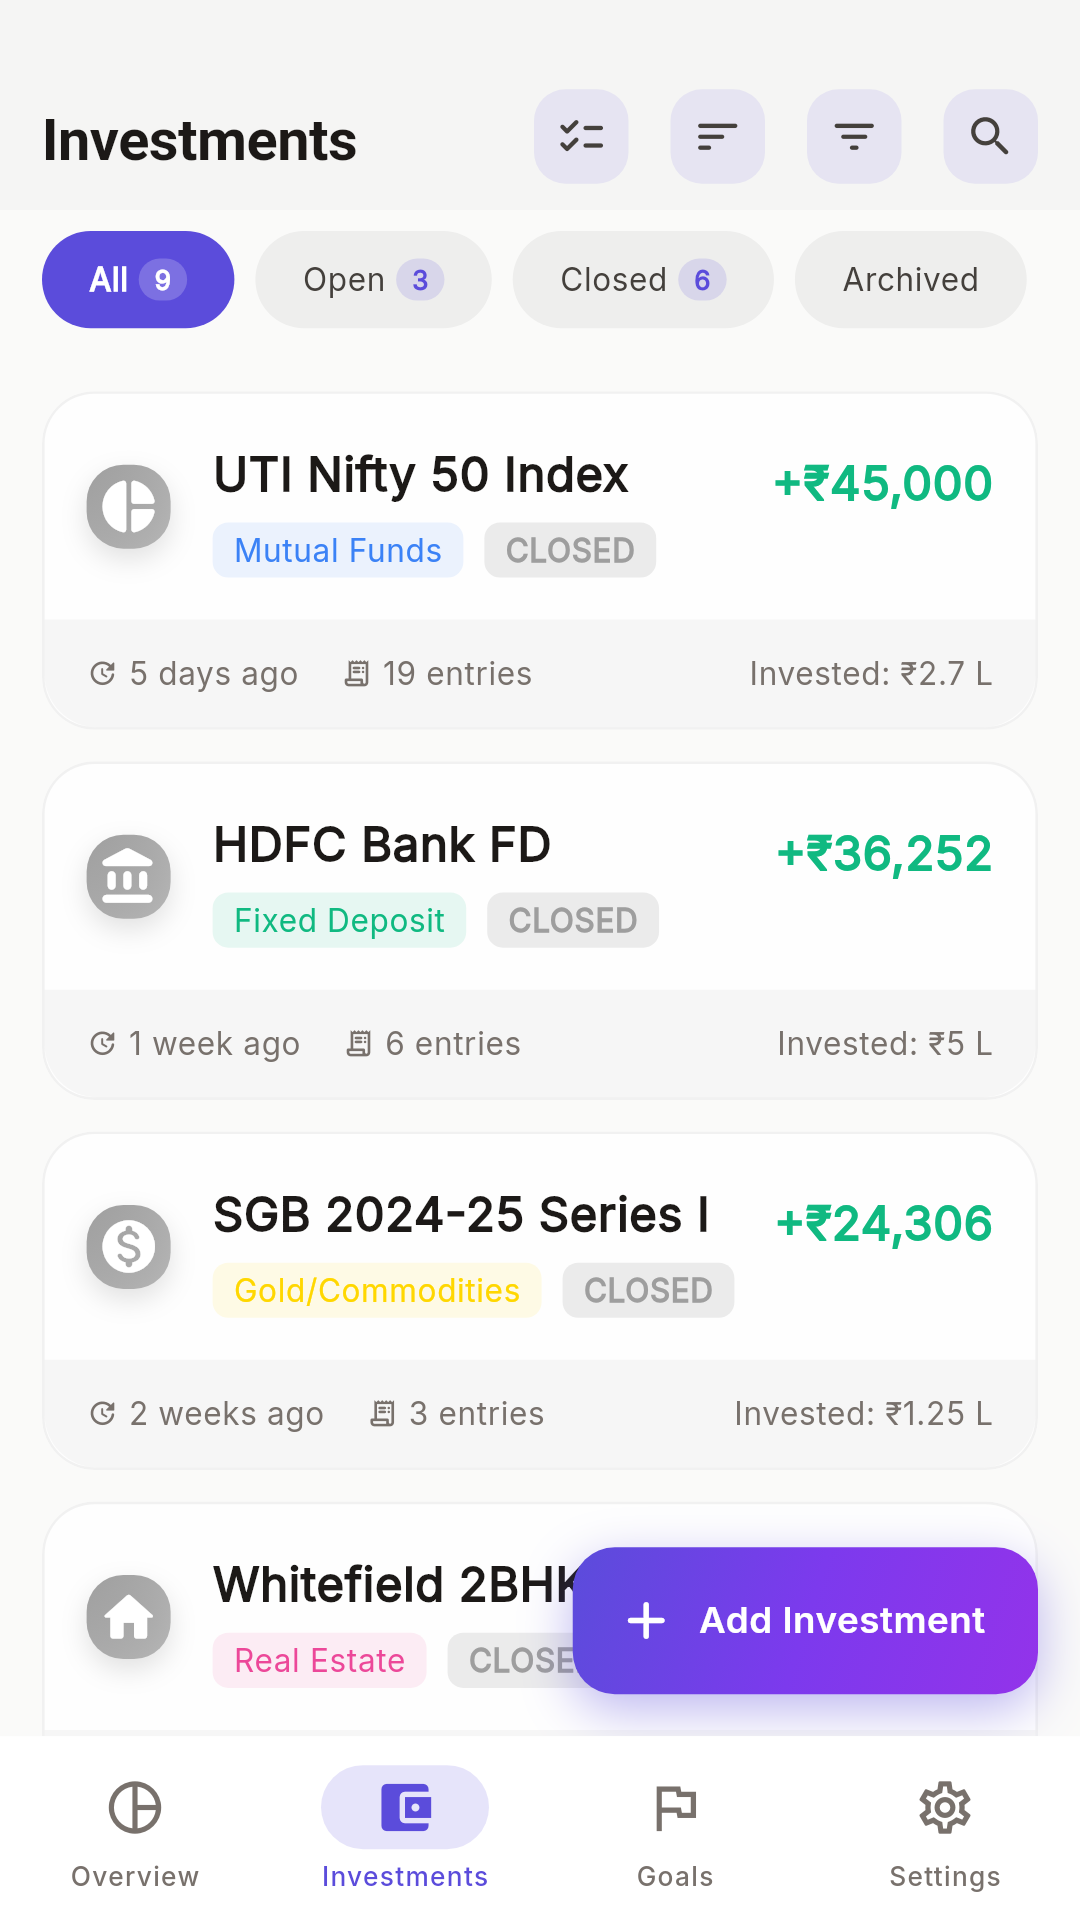
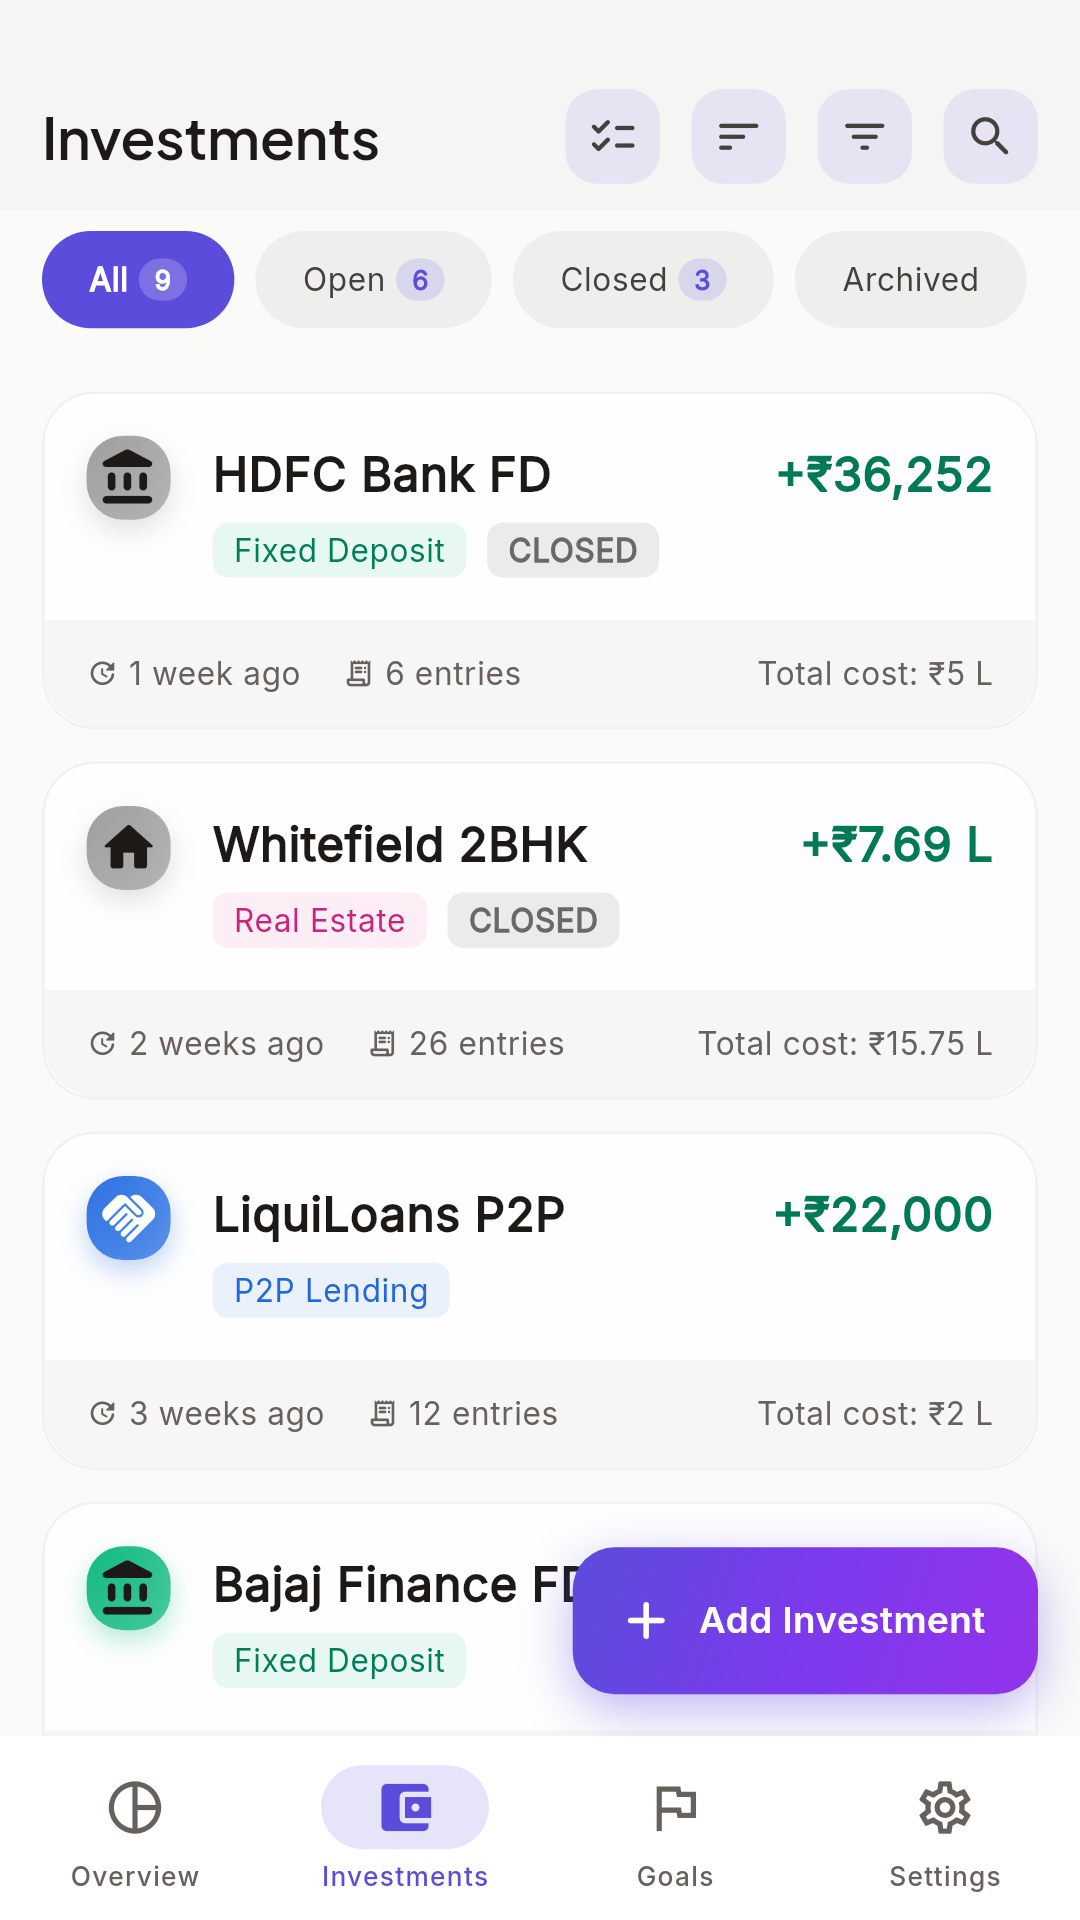
fix(investments): show an open investment's gain, not its net outflow, on its card (#1247)
* fix(investments): show an open investment's gain, not its net outflow, on its card

An open investment with a current value showed money in minus money out
(for example -Rs1 L on an FD worth more than its cost), which reads as a
loss. The card now leads with value now plus money received minus cost.
Closed and value-less cards are unchanged. The Play screenshot demo data
now holds six open investments so the store images show live returns.

Claude-Session: https://claude.ai/code/session_01Sv9hnUYAyZqEgdQ7grh8U3

* feat(store): new Play screenshots and feature graphic with live open holdings

The listing workflow syncs the five phone screenshots and the feature
graphic from this folder.

Claude-Session: https://claude.ai/code/session_01Sv9hnUYAyZqEgdQ7grh8U3

* feat(store): add the new promo video to the Play listing

Claude-Session: https://claude.ai/code/session_01Sv9hnUYAyZqEgdQ7grh8U3

* docs: record how Play store assets are published

Claude-Session: https://claude.ai/code/session_01Sv9hnUYAyZqEgdQ7grh8U3

* fix(investments): measure the gain figure for the card layout; tighten docs and test

Claude-Session: https://claude.ai/code/session_01Sv9hnUYAyZqEgdQ7grh8U3

* docs: note emoji font, sync log and manual review step for store listing

Claude-Session: https://claude.ai/code/session_01Sv9hnUYAyZqEgdQ7grh8U3

---------

diff --git a/integration_test/mocks/store_demo_data.dart b/integration_test/mocks/store_demo_data.dart
@@ -93,9 +93,10 @@ class StoreDemoData {
       );
     }
 
-    // Six closed, profitable positions (a completed "cash in, cash out"
-    // story) come first, then three open holdings that carry a current value
-    // (see "OPEN HOLDINGS" below).
+    // A mix that reads as a live portfolio: three closed, profitable
+    // positions (HDFC FD, Whitefield flat, Faircent) and six open holdings,
+    // each with a current value, so their cards show a gain (value now plus
+    // payouts minus cost) and the Overview's "Value now" is most of it.
 
     // 1. HDFC Bank FD - matured with full principal + interest returned
     final hdfcFd = addInvestment(
@@ -114,20 +115,15 @@ class StoreDemoData {
     }
     addCashFlow(hdfcFd.id, daysAgo(10), CashFlowType.returnFlow, 500000);
 
-    // 2. LenDenClub P2P - high yield, exited after a year. Its last activity
-    // (22 days ago) is more recent than the open holdings' below (24 and
-    // older), so the Investments list shows it fifth, as the top of the card
-    // under the first screen's four, ahead of any open card with a negative
-    // net cash flow.
+    // 2. LenDenClub P2P - high yield, still lending, interest every month
     final lendenClub = addInvestment(
       name: 'LenDenClub P2P',
       type: InvestmentType.p2pLending,
-      status: InvestmentStatus.closed,
+      status: InvestmentStatus.open,
       createdAt: daysAgo(400),
-      closedAt: daysAgo(22),
       incomeFrequency: IncomeFrequency.monthly,
-      notes:
-          'Auto-invest, 200+ borrowers. Withdrew after 12 months at 12% p.a.',
+      notes: 'Auto-invest, 200+ borrowers, 12% p.a. paid monthly.',
+      currentValue: 150000,
     );
     addCashFlow(lendenClub.id, daysAgo(400), CashFlowType.invest, 150000);
     for (int i = 12; i >= 1; i--) {
@@ -138,7 +134,6 @@ class StoreDemoData {
         1500,
       );
     }
-    addCashFlow(lendenClub.id, daysAgo(22), CashFlowType.returnFlow, 150000);
 
     // 3. Whitefield 2BHK - real estate, rented then sold at a gain
     final bangaloreFlat = addInvestment(
@@ -167,19 +162,19 @@ class StoreDemoData {
       1700000,
     );
 
-    // 4. Sovereign Gold Bonds - redeemed early as gold prices rallied
+    // 4. Sovereign Gold Bonds - held, up with the gold price
     final sgb = addInvestment(
       name: 'SGB 2024-25 Series I',
       type: InvestmentType.gold,
-      status: InvestmentStatus.closed,
+      status: InvestmentStatus.open,
       createdAt: daysAgo(365),
-      closedAt: daysAgo(15),
       incomeFrequency: IncomeFrequency.semiAnnual,
-      notes: 'Issue price ₹6,263/gm. Redeemed early after a gold price rally.',
+      notes:
+          'Issue price ₹6,263/gm, 20 gm. 2.5% p.a. interest plus gold price.',
+      currentValue: 158000,
     );
     addCashFlow(sgb.id, daysAgo(365), CashFlowType.invest, 125260);
     addCashFlow(sgb.id, daysAgo(180), CashFlowType.income, 1566);
-    addCashFlow(sgb.id, daysAgo(15), CashFlowType.returnFlow, 148000);
 
     // 5. Faircent P2P - closed with profit
     final faircent = addInvestment(
@@ -197,14 +192,14 @@ class StoreDemoData {
     }
     addCashFlow(faircent.id, daysAgo(45), CashFlowType.returnFlow, 100000);
 
-    // 6. UTI Nifty 50 Index Fund - SIP redeemed at a gain (mutual fund diversity)
+    // 6. UTI Nifty 50 Index Fund - SIP still running, up since it started
     final niftyFund = addInvestment(
       name: 'UTI Nifty 50 Index',
       type: InvestmentType.mutualFunds,
-      status: InvestmentStatus.closed,
+      status: InvestmentStatus.open,
       createdAt: daysAgo(540),
-      closedAt: daysAgo(5),
-      notes: 'SIP ₹15,000/month, direct plan. Redeemed after 18 months.',
+      notes: 'SIP ₹15,000/month, direct plan, running for 18 months.',
+      currentValue: 318000,
     );
     for (int i = 18; i >= 1; i--) {
       addCashFlow(
@@ -214,17 +209,13 @@ class StoreDemoData {
         15000,
       );
     }
-    addCashFlow(niftyFund.id, daysAgo(5), CashFlowType.returnFlow, 315000);
 
     // ============ OPEN HOLDINGS - what is held today ============
     // Since A11/A12 goals and FIRE count what is held today (open
     // investments at their dated current value), the closed positions above
-    // add nothing to them. These three are still open, each with a current
-    // value, so the goals and FIRE cards show progress. They are kept small
-    // and their last activity is older than the closed positions' above, so
-    // the Overview card (net cash flow, where money still invested counts as
-    // paid out) stays positive and the first Investments cards stay green:
-    // an open investment's card shows its net cash flow, which is negative.
+    // add nothing to them. Every open holding here, and the three above,
+    // carries a current value, so the goals and FIRE cards show progress
+    // and each open card shows a gain.
 
     // 7. Bajaj Finance FD - open, interest paid out every quarter
     final bajajFd = addInvestment(

diff --git a/lib/features/investment/presentation/widgets/investment_card.dart b/lib/features/investment/presentation/widgets/investment_card.dart
@@ -112,7 +112,7 @@ class InvestmentCard extends ConsumerWidget {
         // The card knows no current value, so the label never says one. What
         // it does say goes in receivedSegment below: what went in and came
         // back while the value is awaited (a net would read as a loss), the
-        // net position on every other card.
+        // gain on an open card with a value, the net position otherwise.
         currentValue: null,
         receivedSegment: isAwaitingValue
             ? l10n.investmentCardReceivedSemantics(
@@ -124,11 +124,13 @@ class InvestmentCard extends ConsumerWidget {
                         locale: currencyFormat.locale,
                       ),
               )
-            : l10n.investmentCardNetSemantics(
+            : (stats.showsGain
+                  ? l10n.investmentCardGainSemantics
+                  : l10n.investmentCardNetSemantics)(
                 isPrivacyMode
                     ? l10n.hiddenAmount
                     : AccessibilityUtils.formatCurrencyForScreenReader(
-                        stats.netCashFlow,
+                        stats.cardFigure,
                         currencySymbol,
                         locale: currencyFormat.locale,
                       ),
@@ -366,9 +368,10 @@ double _valueColumnWidth(
     return math.max(amounts + AppSpacing.xxs + words, chip);
   }
 
-  final isPositive = stats.netCashFlow >= 0;
+  final cardFigure = stats.cardFigure;
+  final isPositive = cardFigure >= 0;
   final net = figure(
-    stats.netCashFlow.abs(),
+    cardFigure.abs(),
     _figureStyle(),
     prefix: isPositive ? '+' : '-',
   );
@@ -695,7 +698,9 @@ class _InvestmentValueColumn extends StatelessWidget {
         }
 
         final l10n = AppLocalizations.of(context);
-        final isPositive = stats.netCashFlow >= 0;
+        // Gain for an open holding with a value, net cash flow otherwise.
+        final figure = stats.cardFigure;
+        final isPositive = figure >= 0;
         final plColor = isPositive
             ? (isDark ? AppColors.graphEmerald : AppColors.successLight)
             : (isDark ? AppColors.errorDark : AppColors.errorLight);
@@ -709,14 +714,12 @@ class _InvestmentValueColumn extends StatelessWidget {
             isPrivacyMode
                 ? MaskedAmountText(
                     text:
-                        '${isPositive ? '+' : '-'}${currencyFormat.formatCompact(stats.netCashFlow.abs())}',
+                        '${isPositive ? '+' : '-'}${currencyFormat.formatCompact(figure.abs())}',
                     style: valueStyle,
                   )
                 : CompactAmountText(
-                    amount: stats.netCashFlow.abs(),
-                    compactText: currencyFormat.formatCompact(
-                      stats.netCashFlow.abs(),
-                    ),
+                    amount: figure.abs(),
+                    compactText: currencyFormat.formatCompact(figure.abs()),
                     currencySymbol: currencyFormat.currencySymbol,
                     locale: currencyFormat.locale,
                     prefix: isPositive ? '+' : '-',

diff --git a/test/features/investment/presentation/widgets/investment_card_return_display_test.dart b/test/features/investment/presentation/widgets/investment_card_return_display_test.dart
@@ -33,13 +33,12 @@ Future<void> _pumpCard(
       overrides: [
         if (investment.isArchived) ...[
           // Archived cards read the converted archived stats, XIRR included.
-          multiCurrencyArchivedInvestmentStatsProvider(investment.id)
-              .overrideWith(
-                (ref) async => stats.copyWith(
-                  xirr: xirr.value,
-                  xirrMethod: xirr.method,
-                ),
-              ),
+          multiCurrencyArchivedInvestmentStatsProvider(
+            investment.id,
+          ).overrideWith(
+            (ref) async =>
+                stats.copyWith(xirr: xirr.value, xirrMethod: xirr.method),
+          ),
         ] else ...[
           investmentBasicStatsProvider(
             investment.id,
@@ -157,6 +156,63 @@ void main() {
 
     expect(find.text('Awaiting current value'), findsOneWidget);
     expect(find.textContaining('-99'), findsNothing);
+  });
+
+  testWidgets('open FD with a current value shows its gain, not a red net '
+      'outflow', (tester) async {
+    // Rs5L FD, three quarterly payouts of Rs10,060, still worth Rs5L today.
+    // Money in minus money out alone is -Rs4,69,820, which reads as a loss.
+    final stats = InvestmentStats(
+      totalInvested: 500000,
+      paidInCapital: 500000,
+      totalReturned: 30180,
+      netCashFlow: -469820,
+      absoluteReturn: 6.036,
+      moic: 1.06036,
+      xirr: 0.0812,
+      cashFlowCount: 4,
+      firstCashFlowDate: DateTime(2026, 1, 1),
+      lastCashFlowDate: DateTime(2026, 10, 1),
+      currentValue: 500000,
+      currentValueDate: DateTime(2026, 10, 10),
+    );
+
+    await _pumpCard(
+      tester,
+      investment: _investment(InvestmentStatus.open),
+      stats: stats,
+      xirr: const XirrResult.exact(0.0812),
+    );
+
+    expect(find.textContaining('-₹'), findsNothing);
+    expect(find.text('+₹30,180'), findsOneWidget);
+    final label = tester.getSemantics(find.byType(GlassCard)).label;
+    expect(label, contains('Gain'));
+    expect(label, isNot(contains('Net position')));
+  });
+
+  testWidgets('closed investment still shows its net position', (tester) async {
+    final stats = InvestmentStats(
+      totalInvested: 100000,
+      totalReturned: 112000,
+      netCashFlow: 12000,
+      absoluteReturn: 12,
+      moic: 1.12,
+      xirr: 0.12,
+      cashFlowCount: 2,
+      firstCashFlowDate: DateTime(2025, 1, 1),
+      lastCashFlowDate: DateTime(2026, 1, 1),
+    );
+
+    await _pumpCard(
+      tester,
+      investment: _investment(InvestmentStatus.closed),
+      stats: stats,
+      xirr: const XirrResult.exact(0.12),
+    );
+
+    final label = tester.getSemantics(find.byType(GlassCard)).label;
+    expect(label, contains('Net position'));
   });
 
   testWidgets('3-day holding shows +2.0% in 3 days instead of an annual rate', (

diff --git a/test/store_screenshots/store_screenshot_harness_test.dart b/test/store_screenshots/store_screenshot_harness_test.dart
@@ -243,8 +243,8 @@ void main() {
     testWidgets('a loss on the first screen of the list fails the scene', (
       tester,
     ) async {
-      // The review's probe: one open holding dated today sorts first and
-      // shows its net cash flow, which is negative while it is open.
+      // The review's probe: one open holding dated today sorts first and is
+      // worth less than it cost, so its card shows a negative gain.
       final today = DateTime.now();
       final day = DateTime(today.year, today.month, today.day);
       final probe = InvestmentEntity(
@@ -255,7 +255,7 @@ void main() {
         createdAt: day,
         updatedAt: day,
         currency: 'INR',
-        currentValue: 110000,
+        currentValue: 90000,
         currentValueDate: day,
       );
       final demo = StoreDemoData(
@@ -289,7 +289,7 @@ void main() {
           isA<TestFailure>().having(
             (e) => e.message,
             'message',
-            allOf(contains('negative amount'), contains('-₹1 L')),
+            allOf(contains('negative amount'), contains('-₹10')),
           ),
         );
       });

diff --git a/test/features/investment/presentation/widgets/investment_card_invested_received_test.dart b/test/features/investment/presentation/widgets/investment_card_invested_received_test.dart
@@ -1426,8 +1426,10 @@ void main() {
     });
   });
 
-  // Guard: every other state keeps its net figure and pill, and shows neither
-  // word.
+  // Guard: every other state keeps its figure and pill, and shows neither
+  // word. An open investment with a value leads with its gain (value now plus
+  // money received minus money put in), not its net cash flow: -Rs1 L on an
+  // FD earning 7.2% read as a loss.
   group('other states are unchanged', () {
     Future<void> expectUnchanged(
       WidgetTester tester,
@@ -1447,7 +1449,7 @@ void main() {
       await expectUnchanged(
         tester,
         _confirmedValue,
-        shows: ['-₹1 L', '+7.2% IRR', 'Total cost: '],
+        shows: ['+₹7,186', '+7.2% IRR', 'Total cost: '],
       );
     });
 
@@ -1455,7 +1457,7 @@ void main() {
       await expectUnchanged(
         tester,
         _estimate,
-        shows: ['-₹1 L', '+7.2% Expected XIRR', 'Total cost: '],
+        shows: ['+₹7,186', '+7.2% Expected XIRR', 'Total cost: '],
       );
     });
 

diff --git a/lib/features/investment/domain/entities/investment_stats.dart b/lib/features/investment/domain/entities/investment_stats.dart
@@ -225,6 +225,16 @@ class InvestmentStats {
   double get gain =>
       FinancialCalculator.roundMoney(netCashFlow + (currentValue ?? 0));
 
+  /// The figure an investment card leads with: [gain] when it holds a
+  /// current value and [gain] applies (no limited-history holding), else the
+  /// cash-only [netCashFlow]. An open holding's net cash flow alone is
+  /// negative while it is still invested, which reads as a loss.
+  double get cardFigure => showsGain ? gain : netCashFlow;
+
+  /// Whether [cardFigure] is [gain] rather than [netCashFlow].
+  bool get showsGain =>
+      currentValue != null && returnsKnown && limitedHistoryCount == 0;
+
   /// Whether part of [totalInvested] was money paid out earlier and put
   /// back in, which [moic] and [absoluteReturn] count once.
   bool get hasReinvestedPayouts => paidInCapital < totalInvested;

diff --git a/test/store_screenshots/store_screenshots_test.dart b/test/store_screenshots/store_screenshots_test.dart
@@ -103,10 +103,8 @@ void main() {
       await expectSceneReady(tester, 'play_01_investments_list');
       // Open and closed positions both exist, and the first cards are loaded.
       // expectSceneReady has already checked that no negative amount is in
-      // the frame: open investments show a negative net cash flow, so they
-      // must stay below the first screen.
+      // the frame. Open holdings with a value show their gain.
       expect(find.text('Open'), findsOneWidget);
-      expect(find.text('UTI Nifty 50 Index'), findsOneWidget);
       expect(find.text('HDFC Bank FD'), findsOneWidget);
       await captureScene(tester, 'play_01_investments_list');
 

diff --git a/CLAUDE.md b/CLAUDE.md
@@ -90,6 +90,15 @@ Tickets are GitHub issues labelled `review-2026-10` and titled `[Axx] …`. The 
 - Plan defaults that hold until the founder says otherwise: Premium is built from new features only, and nothing free today becomes paid (A58); the dormant ads SDK is removed (A34, A57); Income Guardian is hidden until something generates expected payouts (A42).
 - Account deletion builds on the existing pipeline: `deletionRequests` rules (APP-331), the processing job in `scripts/account-deletion` (APP-332) and in-app requests (APP-334). Extend that work; don't replace it.
 
+## Play store assets
+
+The Play listing is driven by the repo, so nothing is done by hand in Play Console.
+
+- Files live in `android/fastlane/metadata/android/en-US/`: `images/phoneScreenshots/play_01..05_*.png` (24-bit RGB, no alpha, 2 to 8 images, at most 2:1), `images/featureGraphic.png` (1024x500), `video.txt` (the unlisted YouTube link of the promo) and the title and description text files.
+- Screenshots come from `STORE_SCREENSHOTS_ALLOW_FONT_FALLBACK=1 STORE_SCREENSHOTS_DIR=android/fastlane/metadata/android/en-US/images/phoneScreenshots flutter test test/store_screenshots/store_screenshots_test.dart`, which uses the demo data in `integration_test/mocks/store_demo_data.dart`. No emulator is needed, but Noto Color Emoji must be installed in a searched font path, or point `STORE_SCREENSHOTS_EMOJI_FONT` at the font file.
+- Merge the change to `main`, then run InvTrack's `listing` workflow (Actions tab, `.github/workflows/listing.yml`, which calls release-platform's and forwards `dry_run`) with `dry_run: true` and read the workflow summary and the "Sync the Play listing" step log, which shows what would change. Run it with `dry_run: false` only after the owner says OK, because that updates the live store page. If the summary says the edit was committed but not sent for review (`COMMITTED_NOT_SENT_FOR_REVIEW`), the owner submits it from Play Console.
+- Browser steps (for example a YouTube upload): use the Claude in Chrome extension tools on the owner's Mac. Remote Control sessions on the Mac did not connect. A file picker cannot be driven, so ask the owner to pick the file once, then continue.
+
 ## Don't
 
 - Push to `main`, deploy to Firebase, or change production Play listings from a session. Merges and deploys are the founder's.
